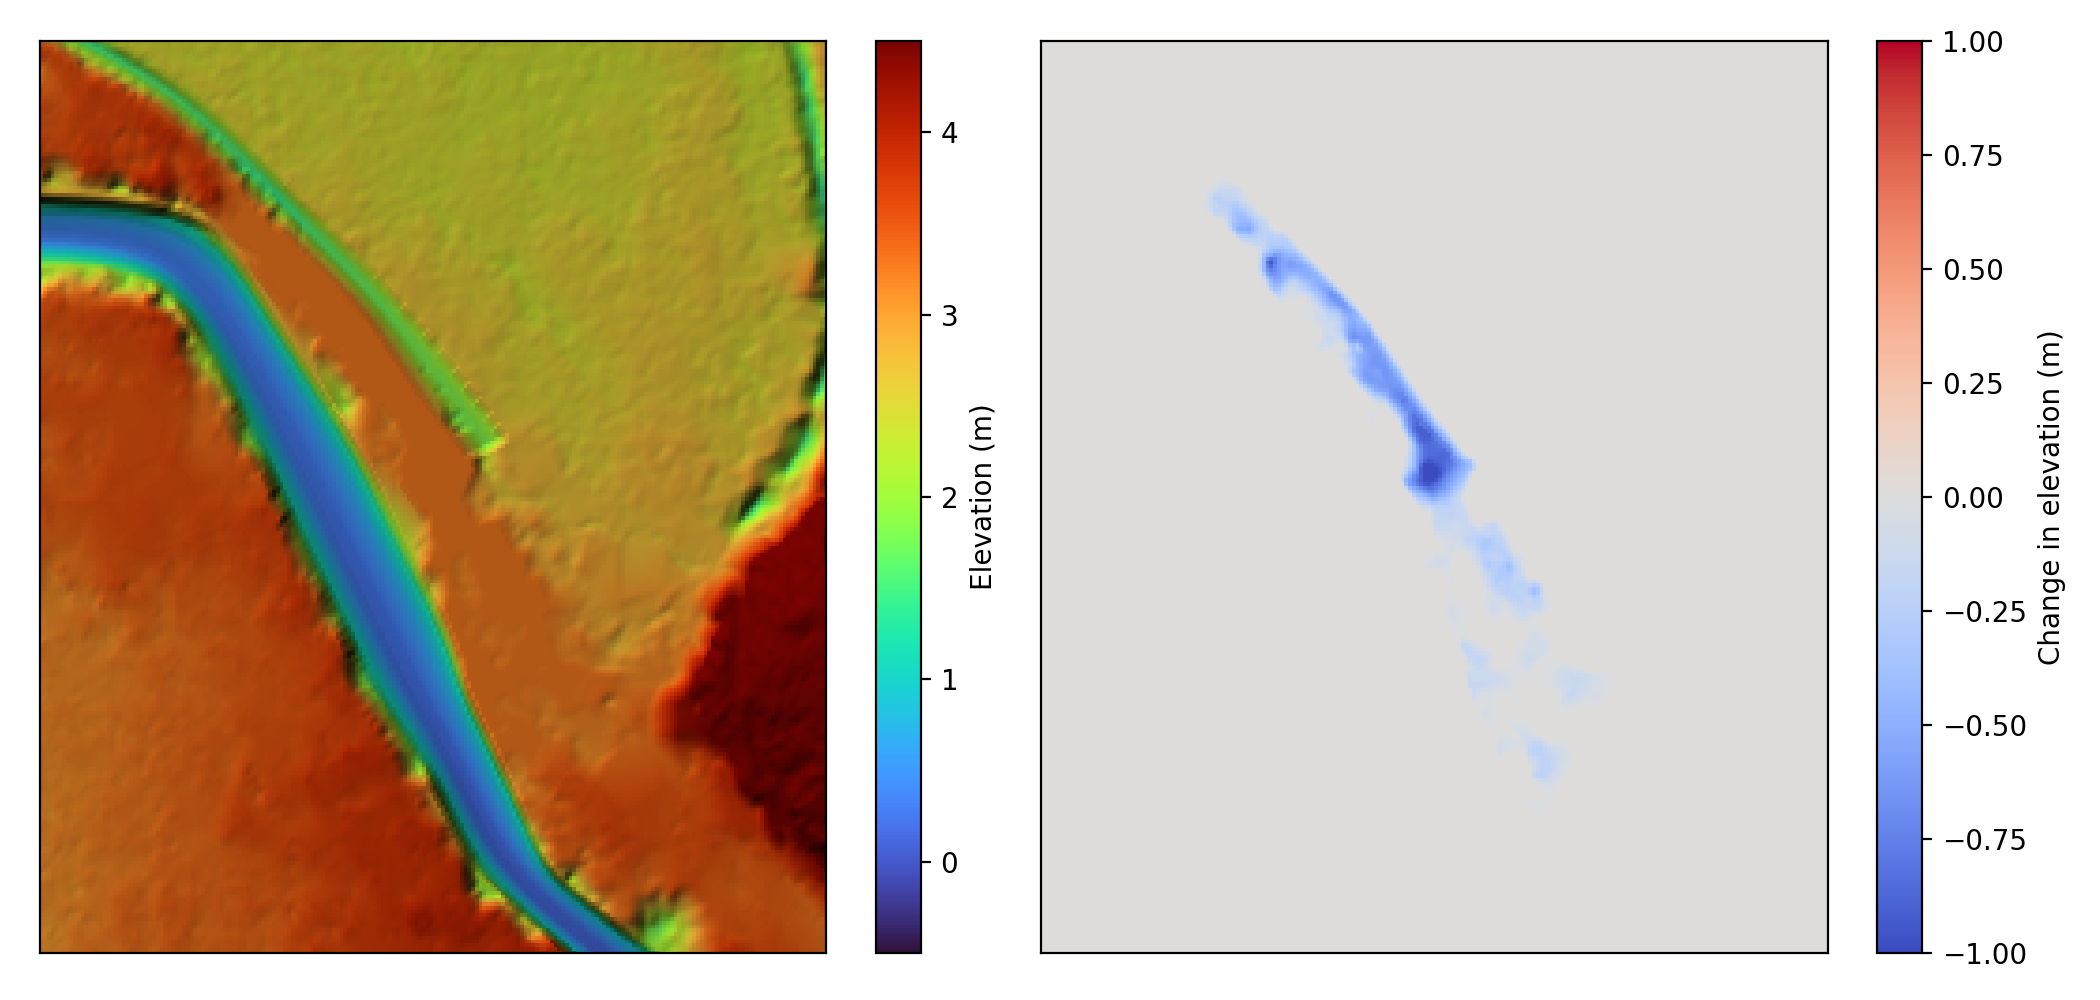
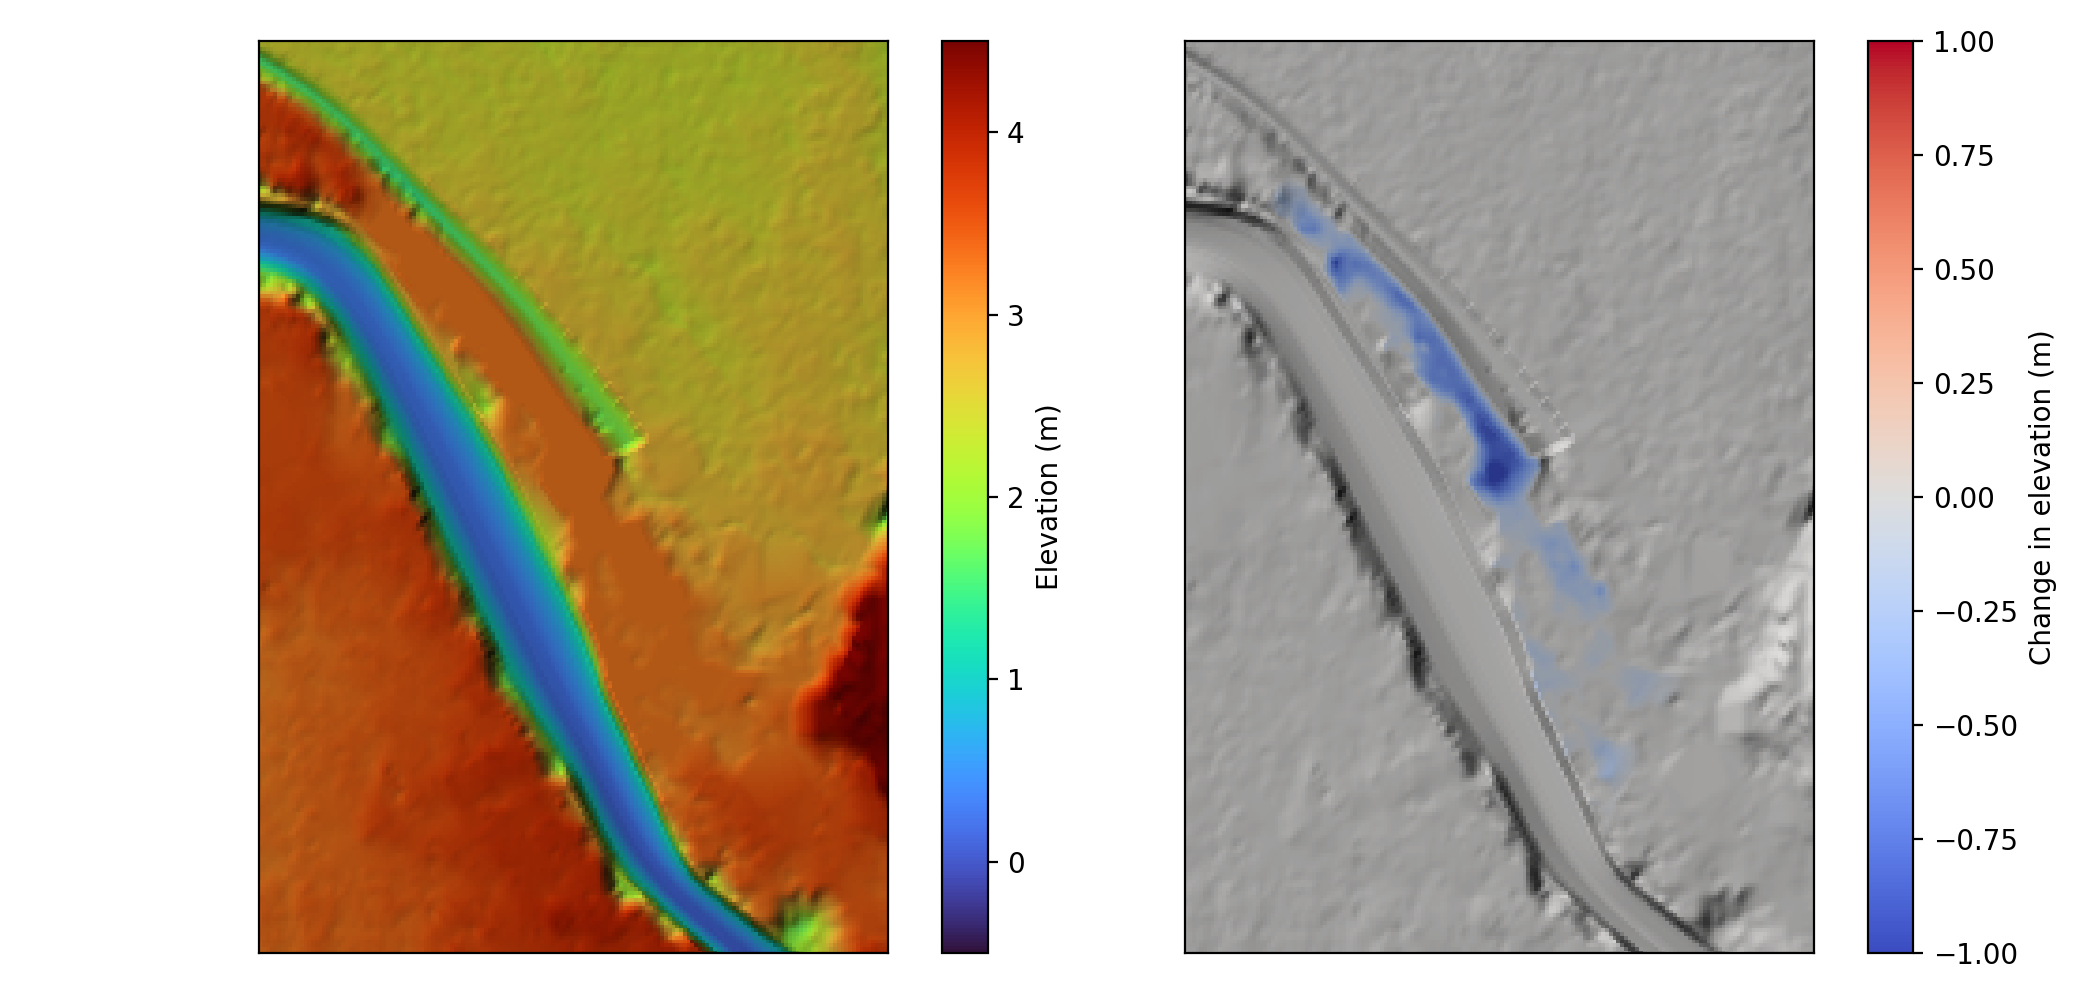
Include example of final composite mesh input

diff --git a/plot_scenario_dems.py b/plot_scenario_dems.py
@@ -1,0 +1,87 @@
+import six
+import numpy as np
+import matplotlib.pyplot as plt
+from stompy.spatial import generate_dem, field
+from stompy import utils
+
+# Plots of the difference
+base=field.GdalGrid("compiled-dem-asbuilt-20210920-1m.tif")
+scen1=field.GdalGrid("scen1/output_res1.tif")
+scen2=field.GdalGrid("scen2/output_res1.tif")
+scen3=field.GdalGrid("scen3/output_res1.tif")
+
+##
+
+for s_num,scen in enumerate([scen1, scen2, scen3]):
+    if s_num<2: continue # DBG
+    delta=base.extract_tile(match=scen)
+    delta.F=scen.F-delta.F
+
+    changed=np.isfinite(delta.F) & (delta.F!=0.0)
+    if not np.any(changed):
+        print(f"No changes for scenario {1+s_num}")
+        continue
+
+    fignum=1+s_num
+    plt.figure(fignum).clf()
+    fig,axs=plt.subplots(1,2,num=fignum)
+    if scen==scen2:
+        fig.set_size_inches([10.5,5],forward=True)
+    else: # scen==scen3
+        fig.set_size_inches([10.5,3.75],forward=True)
+    axs[0].set_adjustable('datalim')
+    axs[1].set_adjustable('datalim')
+
+    img1=scen.plot(ax=axs[0],cmap='turbo')
+    img1hs=scen.plot_hillshade(ax=axs[0],z_factor=2)
+    img1.set_clim([-0.5,4.5])
+    
+    img2=delta.plot(ax=axs[1],cmap='coolwarm')
+    img2.set_clim([-1,1])
+    img2hs=scen.plot_hillshade(ax=axs[1],z_factor=2)
+
+    plt.colorbar(img2,#cax=fig.add_axes([0.9,0.2,0.015,0.35]),
+                 ax=axs[1],
+                 label="Change in elevation (m)")
+    plt.colorbar(img1,
+                 ax=axs[0],
+                 label="Elevation (m)")
+
+    axs[0].xaxis.set_visible(0)
+    axs[0].yaxis.set_visible(0)
+    axs[1].xaxis.set_visible(0)
+    axs[1].yaxis.set_visible(0)
+
+
+    if 0:
+        zoom=(553016.3736891494, 553276.0100527861, 4124131.5179354837, 4124358.523870968)
+    else:
+        # Choose zoom based on where delta is nonzero
+        x,y=delta.xy()
+        if not np.any(changed):
+            print(f"No changes for scenario {1+s_num}")
+            continue
+        x_changed=np.nonzero( np.any(changed,axis=0) )[0]
+        y_changed=np.nonzero( np.any(changed,axis=1) )[0]
+        xmin=x[x_changed[0]]
+        xmax=x[x_changed[-1]]
+        ymin=y[y_changed[0]]
+        ymax=y[y_changed[-1]]
+        zoom=utils.expand_xxyy([xmin,xmax,ymin,ymax],0.05)
+        if zoom[0]<delta.extents[0]:
+            zoom[0]=delta.extents[0]
+        if zoom[1]>delta.extents[1]:
+            zoom[1]=delta.extents[1]
+        if zoom[2]<delta.extents[2]:
+            zoom[2]=delta.extents[2]
+        if zoom[3]>delta.extents[3]:
+            zoom[3]=delta.extents[3]
+
+    fig.tight_layout()
+    axs[0].axis(zoom)
+    axs[1].axis(zoom)
+    fig.savefig(f'scen{s_num+1}-delta-zoomed.png',dpi=200)
+##
+
+
+# These have been inserted into the initial report document.
